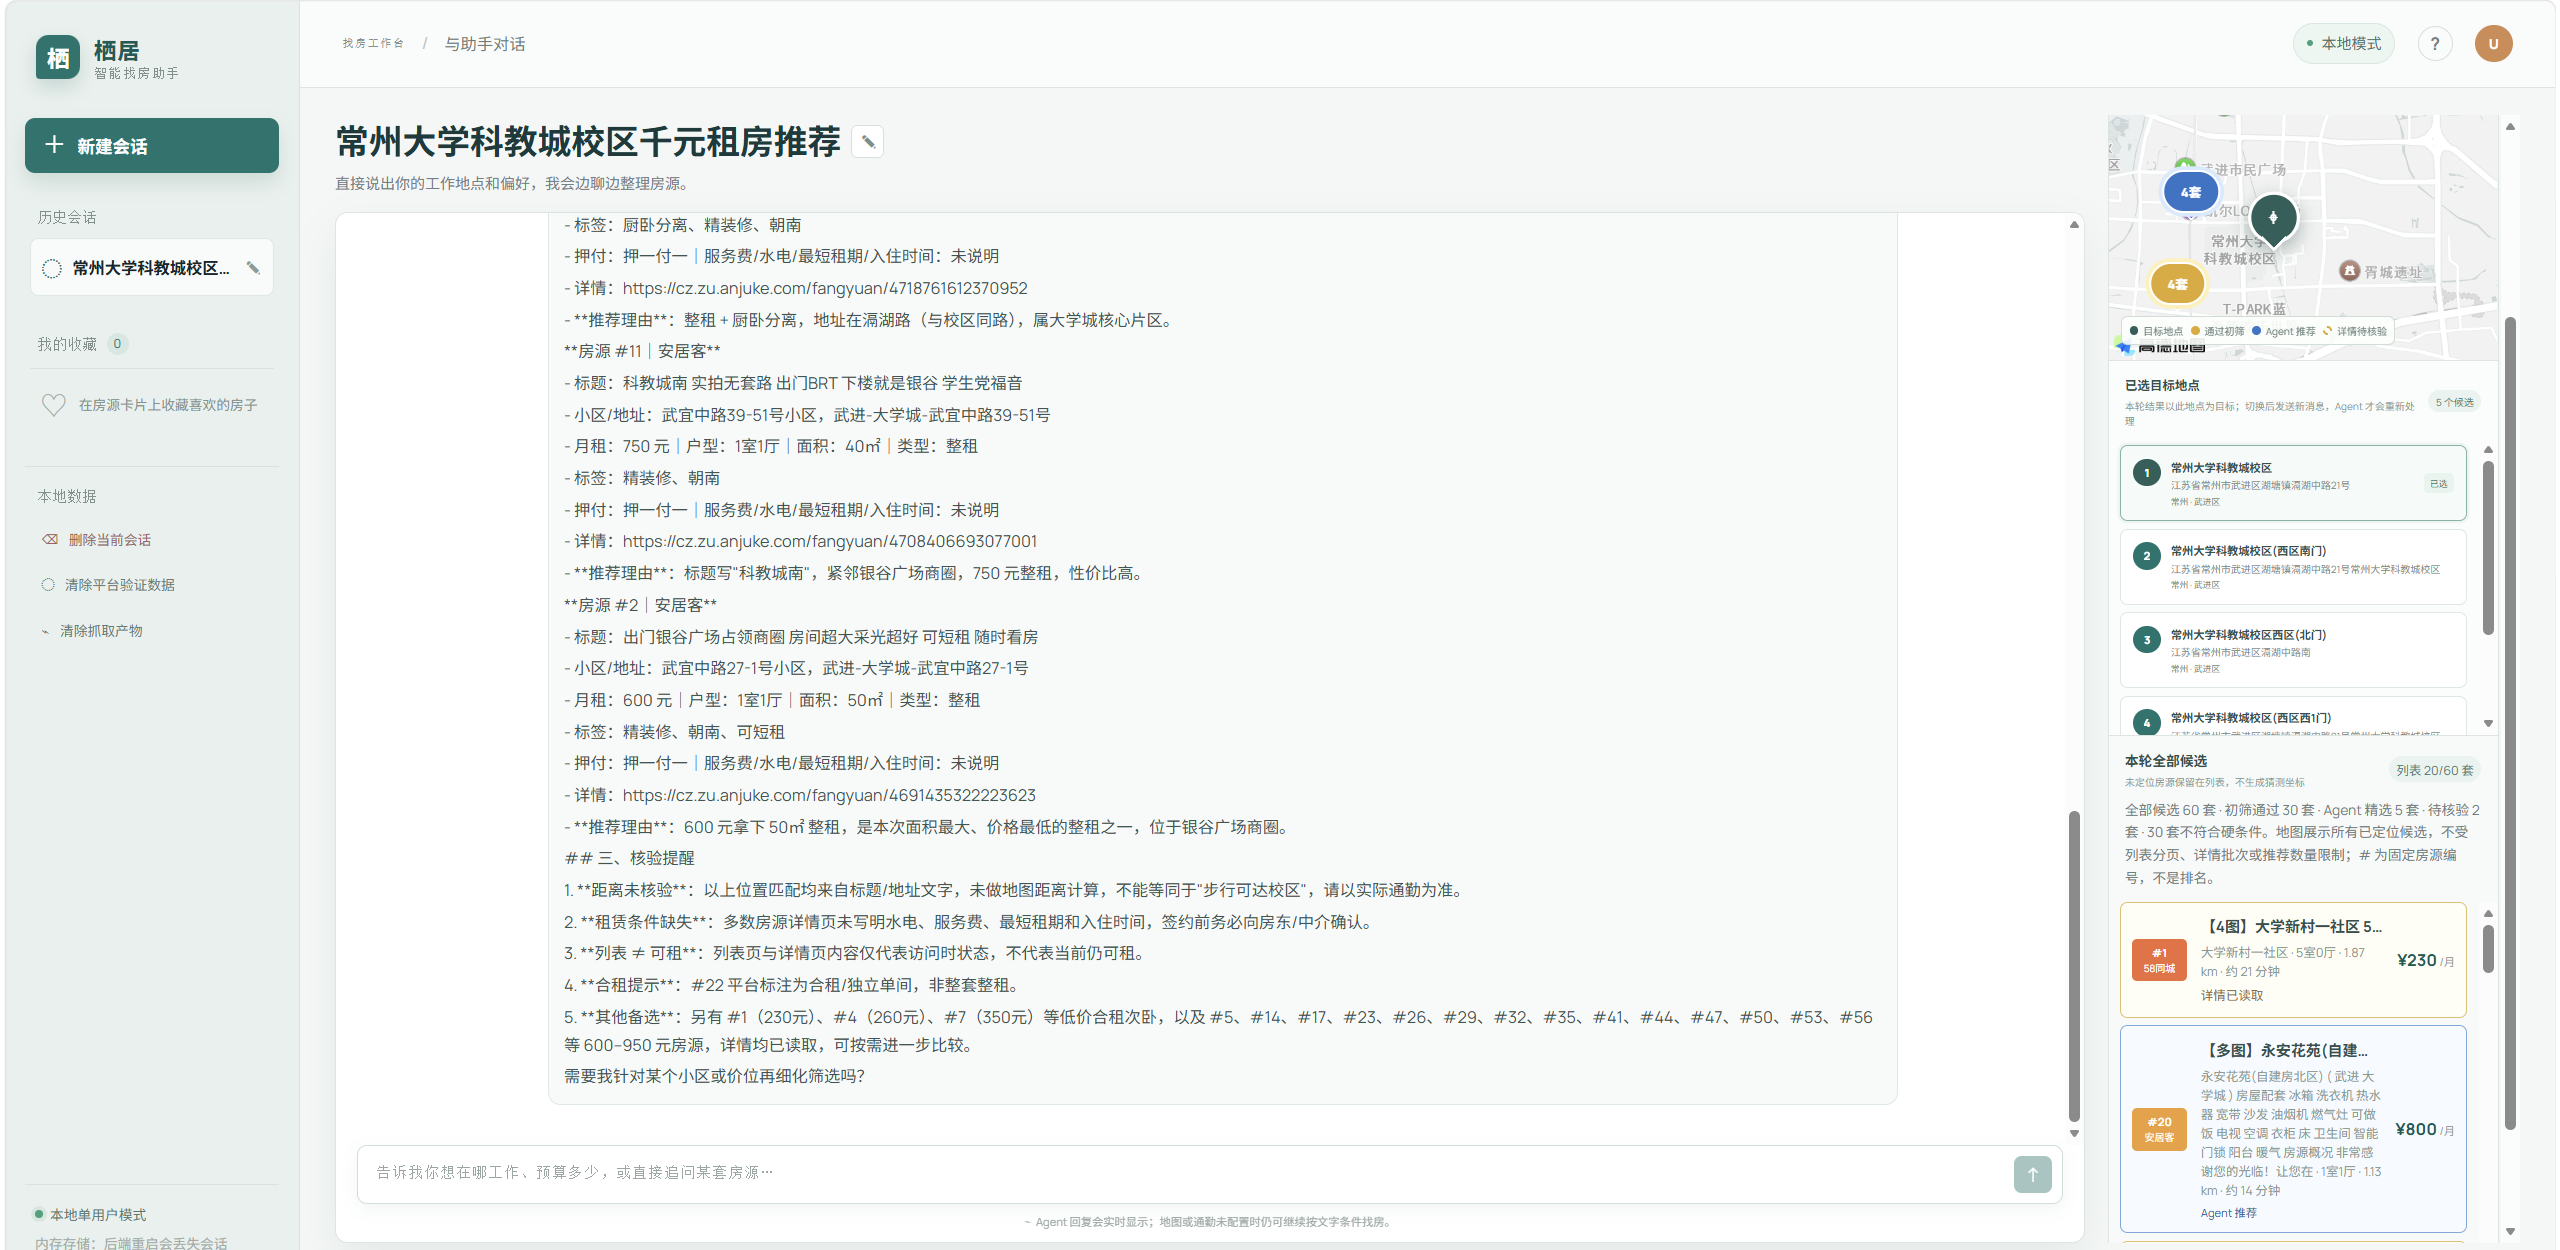
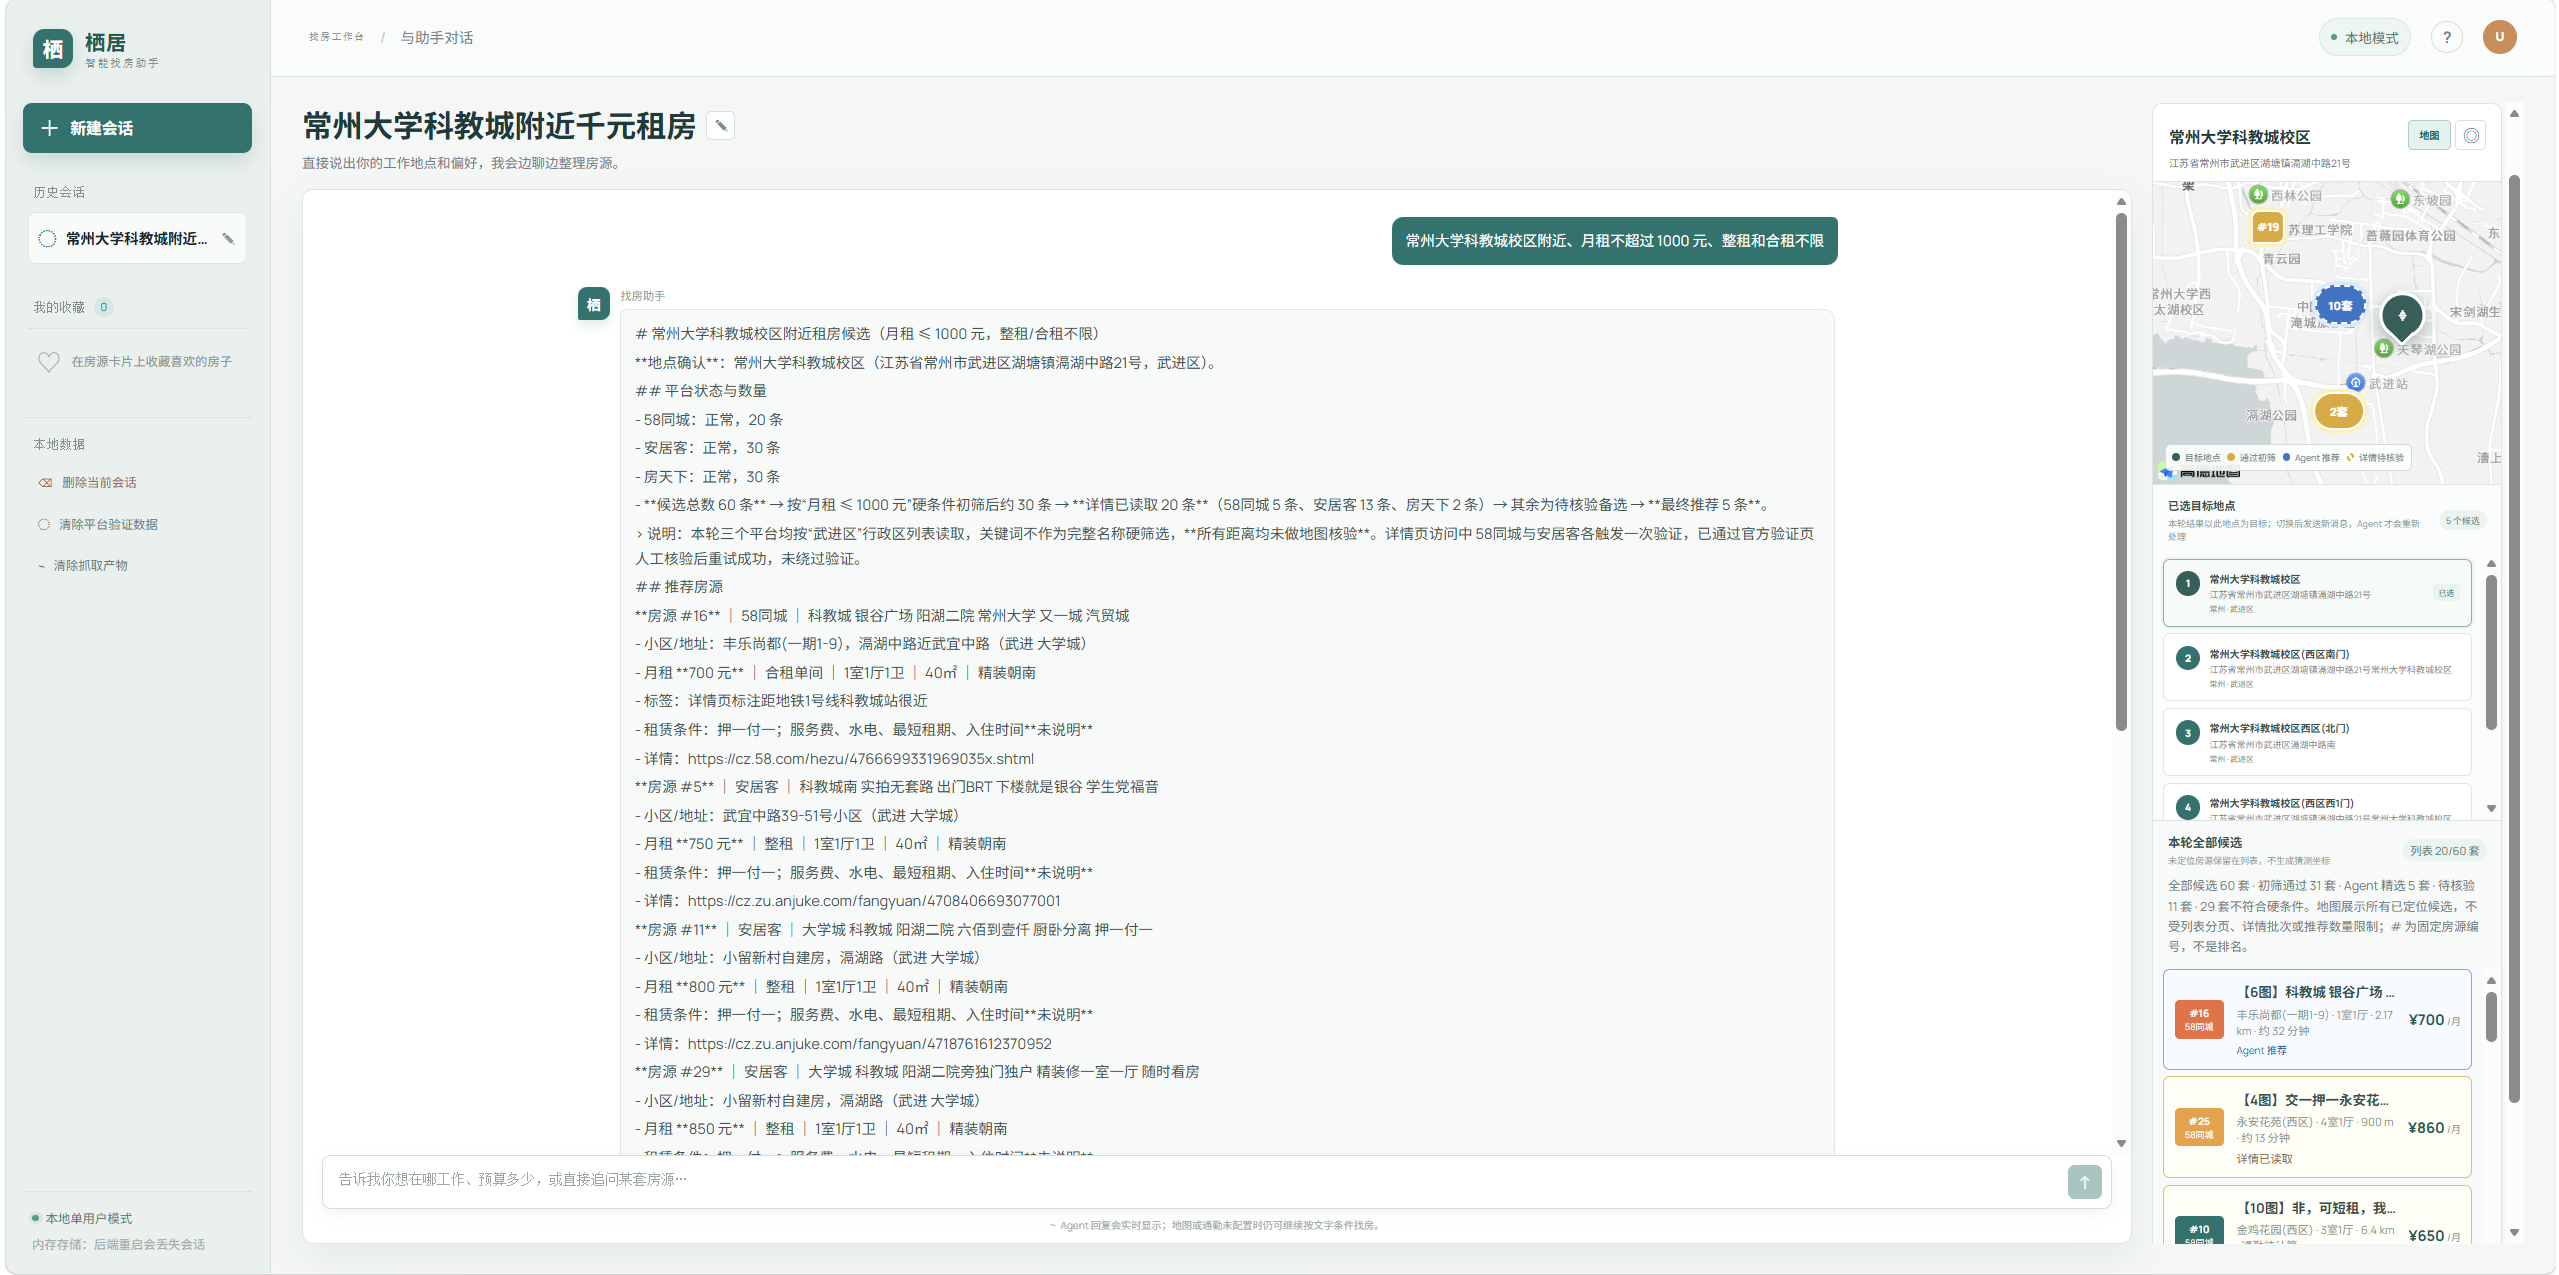
补充房源卡片详情和原平台跳转展示

diff --git a/README.md b/README.md
@@ -18,6 +18,15 @@
 
 ![栖居搜索结果：推荐理由、房源卡片与地图标记](docs/images/search-result-map.png)
 
+### 房源卡片详情与原平台入口
+
+1. 点击右侧房源卡片，打开站内详情抽屉，集中查看推荐理由、租金、户型、面积、地址、详情读取状态，以及已获取的租赁条件和位置／通勤信息。
+2. 点击抽屉底部的“打开原平台”，在新标签页访问该房源的来源链接，进一步核实详情、费用和联系方式。若候选只有平台列表链接，按钮会显示“打开平台列表”。
+
+![栖居房源详情抽屉：推荐依据、房源信息、核验状态与打开原平台按钮](docs/images/listing-details.png)
+
+这张截图展示的是站内详情与跳转入口，不是外部平台页面。原平台可能要求人工验证；未读取或未计算的信息不代表已核验。
+
 > 图片来自实际运行，仅展示当次结果；房源价格、平台访问情况和可租状态可能变化。
 
 ## 核心能力
@@ -26,6 +35,7 @@
 - 地点确认：通过高德 Web Service 解析地点；存在歧义时提供候选，用户可以回复名称、序号或自然语言描述来确认。
 - 多平台搜索：统一整理 58 同城、安居客和房天下的公开列表结果，保留来源平台、原始链接和平台状态。
 - 详情核验：对有真实详情链接的候选读取详情页；遇到访问控制时区分验证、重定向、失败和未访问，不把“没有读到”说成“没有房源”。
+- 房源详情与来源跳转：点击卡片查看详情抽屉，可收藏房源，并通过“打开原平台”继续核实来源信息。
 - 分层展示：地图和右侧列表保留完整候选池；聊天只展示 Agent 真正登记的最多 5 条精选推荐。
 - 地图展示：将目标地点、可定位房源、通勤信息和重叠点聚合展示；黄色表示初筛通过，蓝色表示 Agent 精选。
 - 会话恢复：支持会话历史、暂停/恢复和可选的 MongoDB checkpoint 持久化。
